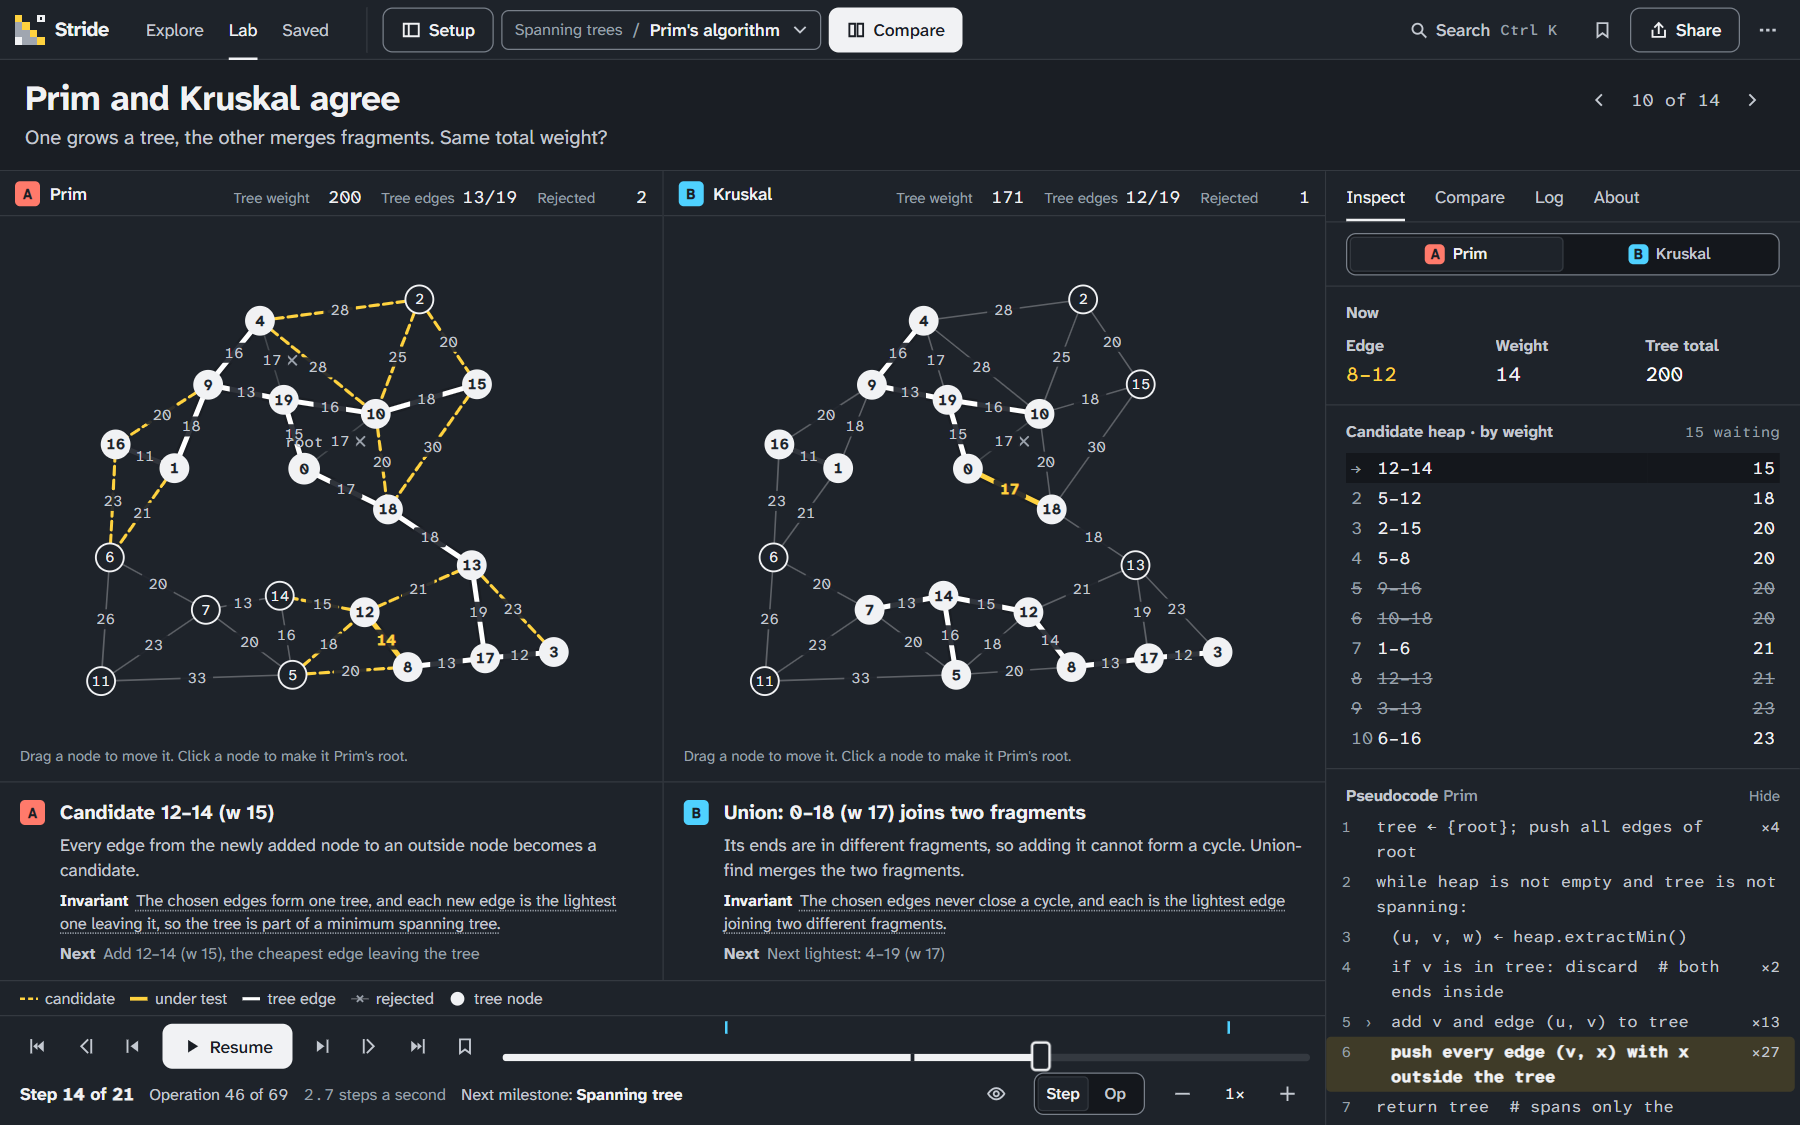
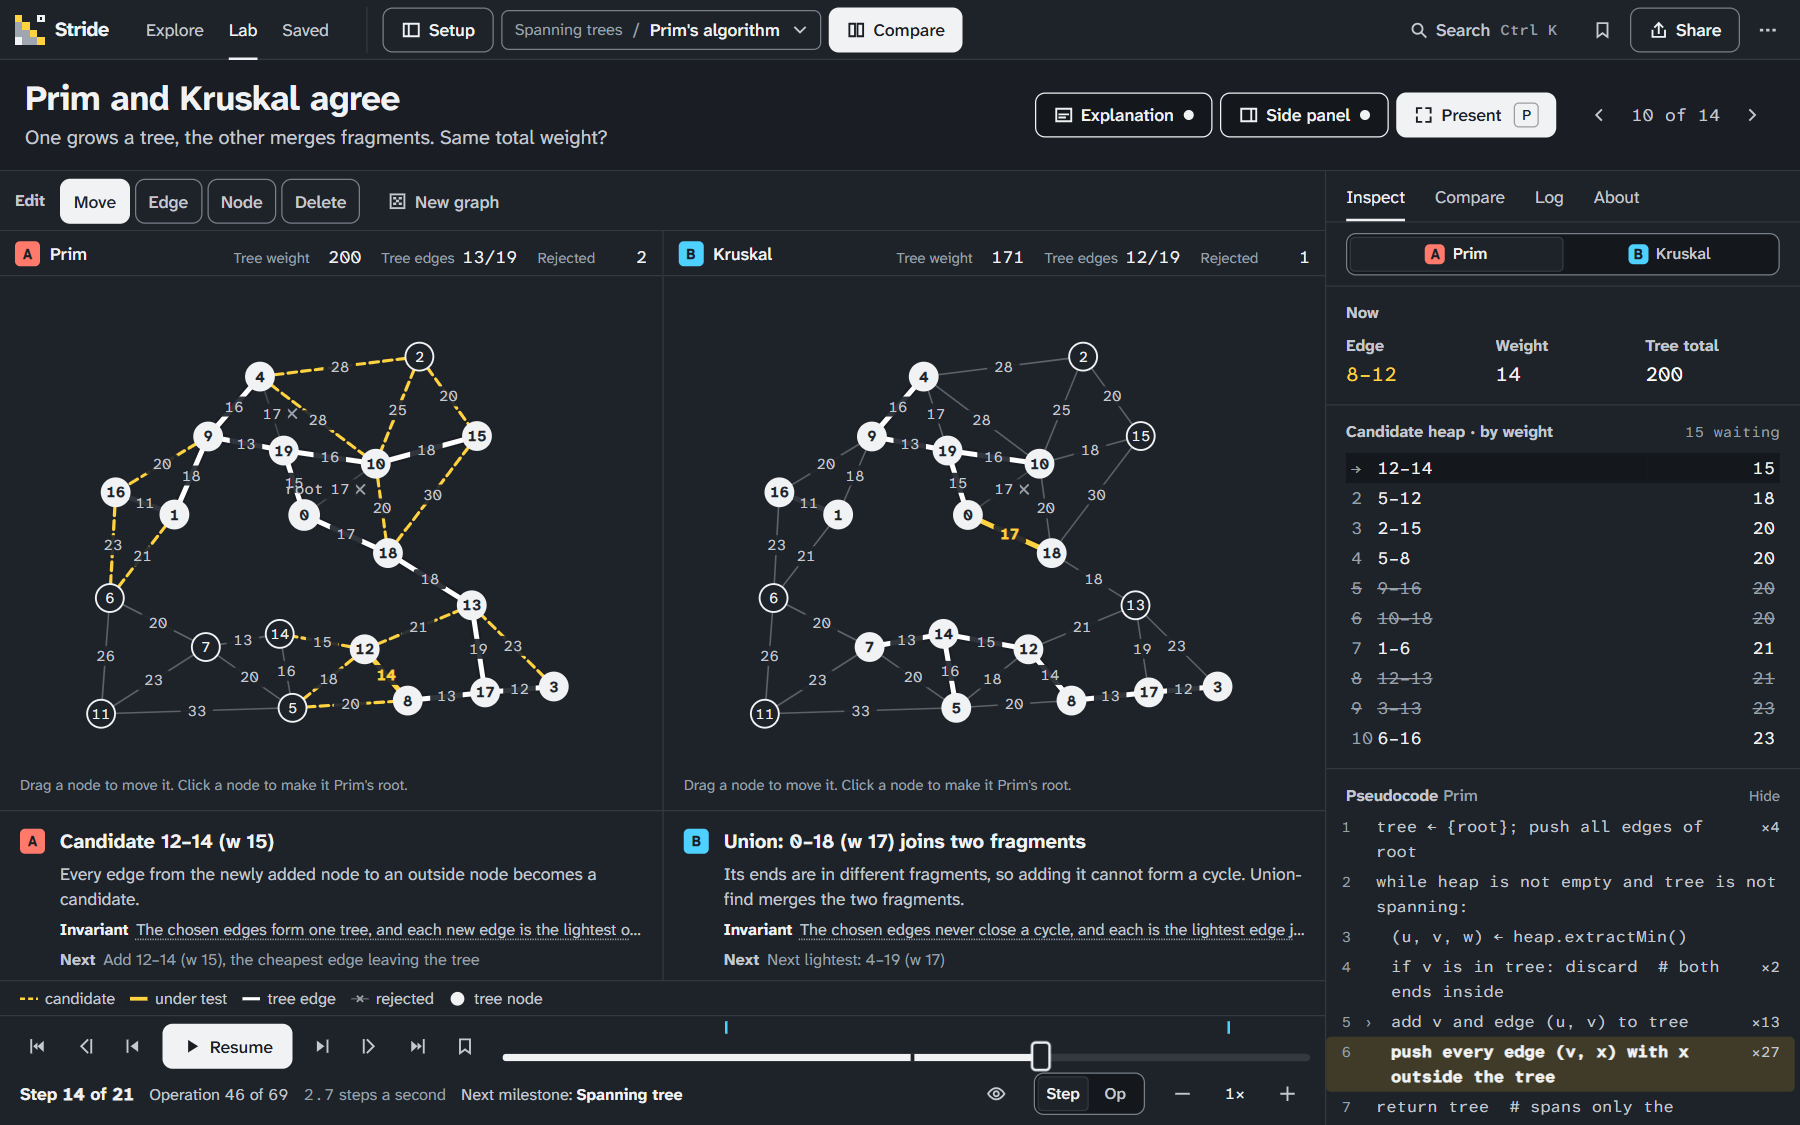
Document the toolbar and retake screenshots

diff --git a/DESIGN.md b/DESIGN.md
@@ -139,7 +139,8 @@ Cell transitions are symmetric, so stepping back reads as the exact inverse of s
 
 ### Narration (`NowCaption`, `Line`)
 
-- The caption grows to fit; nothing is clamped or cut with an ellipsis. The stage grid gives it an `auto` row with the old fixed height as its minimum, and an explicit `minmax(0,1fr)` column so long text wraps instead of widening the stage.
+- The caption has a fixed height (136px; 172px in presentation mode) and never resizes the board. What happened and what happens next are one line each, the reason is at most two lines and the invariant one; anything longer ends in an ellipsis and the full text is in the element title. Professors reported the old growing caption as the board jumping and lagging during playback: it moved the canvas by up to 92px.
+- The Explanation toggle hides the caption row entirely, which gives its 136px to the board. The caption stays mounted inside a zero-height row, so the screen-reader live region keeps announcing steps.
 - Each run's caption has four parts, in order: what happened (bold, 16px; 22px in presentation mode), why it was allowed, the **invariant** (what stays true at every step), and what happens next.
 - Invariants live in `src/core/invariants.ts`, one per algorithm. Until they are approved they render with a dotted underline (`.ph`), the same mark used for any copy awaiting approval.
 
@@ -147,6 +148,14 @@ Cell transitions are symmetric, so stepping back reads as the exact inverse of s
 
 - Heaps and queues are real tables (`table`, `row`, `columnheader`, `cell`) so screen readers announce row and column. Rows keep their identity and move to their new rank by transform; the row that leaves next is tinted `hot-soft` and bold; stale heap entries are struck through and announced as stale; a row that just entered is coloured `hot-ink` with no entrance animation.
 - The highlighted pseudocode line is a full-width `hot-soft` tint (run B: cyan at 15%) with bold text, never a coloured left border.
+
+### Board toolbar (`src/ui/lab/StageToolbar.tsx`)
+
+A 48px toolbar sits directly above the board, so editing the input never means opening Setup. Pathfinding shows Draw: Wall, Mud, Erase, Start, Target (keys 1 to 5), Clear, and New layout. Spanning trees show Edit: Move, Edge, Node, Delete, and New graph. The other families show New data. Every tool is a labelled button; the labels drop to icons only when the board column is narrower than 660px, and each keeps its name for screen readers and a title with its key. The same toolbar appears in presentation mode.
+
+### View controls (`ViewControls`)
+
+The experiment bar ends with three labelled controls: Explanation (E) and Side panel (I), which show their state with a filled or empty dot as well as the pressed fill, and Present (P), the primary button. Turning both toggles off is the large-board mode for a lecture hall without going full screen: at 1440×900 the board grows from 463px to 599px tall and spans the full width.
 
 ### Hide the answer
 
@@ -164,7 +173,8 @@ Cell transitions are symmetric, so stepping back reads as the exact inverse of s
 
 ```
 ┌ header: wordmark · nav · [Setup] [family / algorithm ▾] [Compare] ……… Search · Save · Share · More ┐
-├ experiment bar: question as h1 (28px) · question line (16px) · Result when finished ·  ‹ 2 of 14 › ┤
+├ experiment bar: h1 (28px) · Result chip · question line · [Explanation] [Side panel] [Present] ‹ 2 of 14 › ┤
+├ toolbar: Draw: [Wall] [Mud] [Erase] [Start] [Target] · Clear · New layout                          │
 ├ board 1: run metrics strip                                    │ board 2 (380px, 440px from 1600px) │
 │          canvas (the figure)                                  │  Inspect · Compare · Log · About  │
 │          one legend                                           │  run toggle (comparisons)         │
@@ -175,7 +185,7 @@ Cell transitions are symmetric, so stepping back reads as the exact inverse of s
 ```
 
 - The setup column is gone. Setup opens as a drawer from the header's labelled Setup button at every desktop width, so the canvas gains 272px and the first thing on screen is the question, the board and the structure, not 31 editing controls.
-- **Experiment bar.** For a prepared experiment the `h1` is its title and the line under it is its question (the existing copy in `scenarios.ts`). For an ad-hoc run it is the algorithm's name and its one-line summary, or "A vs B" in a comparison. When a comparison reaches its end, a Result line shows the engine's first comparison insight; it is hidden while answers are hidden. Previous and next arrows step through the 14 experiments in order.
+- **Experiment bar.** For a prepared experiment the `h1` is its title and the line under it is its question (the existing copy in `scenarios.ts`). For an ad-hoc run it is the algorithm's name and its one-line summary, or "A vs B" in a comparison. When a comparison reaches its end, a Result chip on the title row shows the engine's first comparison insight; it is hidden while answers are hidden. It shares the title row and both lines truncate, so the bar has one height in every state and the board never moves when the result appears. Previous and next arrows step through the 14 experiments in order.
 - The experiment id travels in the URL as `x=` next to `e=`, so a share link opened by a student still shows the question. Links without `x=` open exactly as before.
 - **Board 2 order.** The structure the algorithm decides from comes first, then the pseudocode, then the totals (the pseudocode is slotted in before the Totals block in every family).
 - **One legend.** In an overlay comparison the legend lists only A, only B, both, the two paths, current, wall and mud; frontier and expanded are not drawn there, so they are not listed.

diff --git a/CHANGELOG.md b/CHANGELOG.md
@@ -17,16 +17,20 @@
 - No canvas or SVG text is smaller than 12px. Legends show the same hatch, outline, line or dot as the canvas instead of flat squares.
 - Stepping backward animates each cell as the exact inverse of stepping forward.
 - The timeline is a phase rail split at the run's own milestones, replacing an unlabelled colour barcode. The readout says "Step 60 of 659" and names the next milestone.
-- Captions are never cut off. Each step adds an invariant line (what stays true), drafted for all 18 algorithms and marked with a dotted underline until approved.
+- Each step adds an invariant line (what stays true), drafted for all 18 algorithms and marked with a dotted underline until approved.
 - Hide the answer (A, or the eye button): hides the narration, the path, the heap ranks and the Compare verdict while keeping the structure panels, for quizzes and lectures.
 - Heaps and queues are announced as tables. Buttons and toggles are at least 44px on touch screens. Keyboard-opened overlays appear instantly; menus open from their trigger.
 - No coloured left-border callouts remain; emphasis is a tint or weight.
 - The lab opens on the experiment's question as its title, with the canvas and the structure beside it. Setup moves into a drawer at every width, giving the canvas 272px more. Share links keep the experiment (`x=`), so students see the question too.
 - When a comparison finishes, its result appears under the question. Arrows step through all 14 experiments.
 - In the Inspector, the structure comes first, then the pseudocode, then the totals. Comparisons show one legend instead of two.
+- A labelled toolbar above the board holds the editing tools that used to sit in the Setup drawer: Wall, Mud, Erase, Start, Target, Clear and New layout on pathfinding grids, Move, Edge, Node and Delete on graphs, and New data elsewhere. It also appears in presentation mode.
+- The experiment bar has labelled Explanation (E), Side panel (I) and Present (P) controls. Hiding the explanation and the side panel makes the board about 30% taller and full width without going full screen.
 - Explore groups the experiments by family, each row led by its question, instead of a grid of identical cards. Open the lab is the primary action.
 
 ### Changed
+
+- Captions have a fixed height again and long lines end in an ellipsis, with the full text on hover. Growing captions and the result line appearing used to move and resize the board by up to 92px during playback; it now stays put.
 
 - Renamed from Algoscope to Stride. The repository moved from `Mahan-Imanian/ML-Algorithm-Visualizer` to `Mahan-Imanian/stride` (GitHub redirects the old repository URL).
 - The site moved from `https://mahan-imanian.github.io/ML-Algorithm-Visualizer/` to `https://mahan-imanian.github.io/stride/`. The old address now returns 404; links shared from it still open through **Import experiment**.

diff --git a/README.md b/README.md
@@ -37,8 +37,12 @@ In _Bad starting centroids_, k-means++ settles at inertia 1.657 after 2 iteratio
 - **Readable from the back of the room.** A charcoal blackboard theme and a whiteboard light theme, set in Atkinson Hyperlegible. State on the board is shown by pattern as well as colour (hatching for settled, an outline for waiting, a ringed solid for the current cell, a haloed line for the result), so it holds up on a washed-out projector and for colour-blind students.
 - **Phase rail.** Marks under the scrubber show where a run reaches a milestone, such as the target being discovered, and the status line names the next one.
 - **Hide the answers.** <kbd>A</kbd> hides the captions and the result so the class can predict the next step, then reveal it. The counts in the run strip stay visible for now.
-- **Presentation mode.** <kbd>P</kbd> goes full screen with large type and toggles for code, state, explanation and metrics.
+- **Edit the board while you teach.** A toolbar above the board draws walls and mud, erases, moves the start and target, clears the grid or makes a new layout (keys 1 to 5 for the tools). Graphs get Move, Edge, Node and Delete. It stays available in presentation mode.
+- **Make the board bigger.** The Explanation (<kbd>E</kbd>) and Side panel (<kbd>I</kbd>) buttons hide those parts, so the board takes the full width and about 30% more height. The board keeps its size and position while a run plays.
+- **Presentation mode.** The Present button or <kbd>P</kbd> goes full screen with large type and toggles for code, state, explanation and metrics.
 - **Share links.** Input, seed, settings, the experiment and optionally the current step are encoded in the URL, and JSON export uses the same format.
+
+<img alt="BFS in a maze with the explanation and side panel hidden: the toolbar with labelled Wall, Mud, Erase, Start, Target, Clear and New layout buttons above a board that fills the width, and the Explanation, Side panel and Present buttons in the header" src=".github/assets/f-focus.png" width="100%">
 
 <img alt="Answers hidden at the end of A* vs Dijkstra: the captions are replaced by Predict the next step, then reveal it, and a Reveal button" src=".github/assets/f-hidden.png" width="100%">
 
